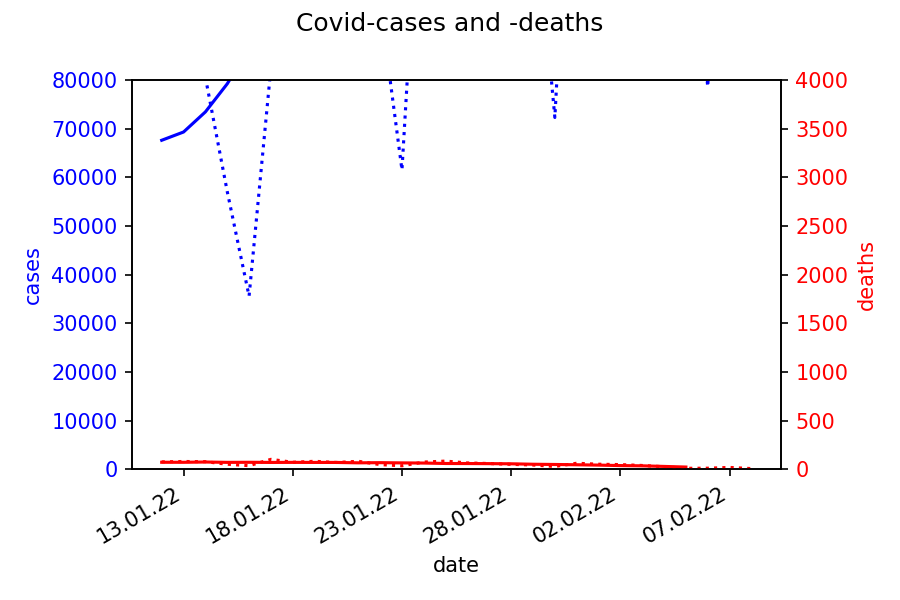
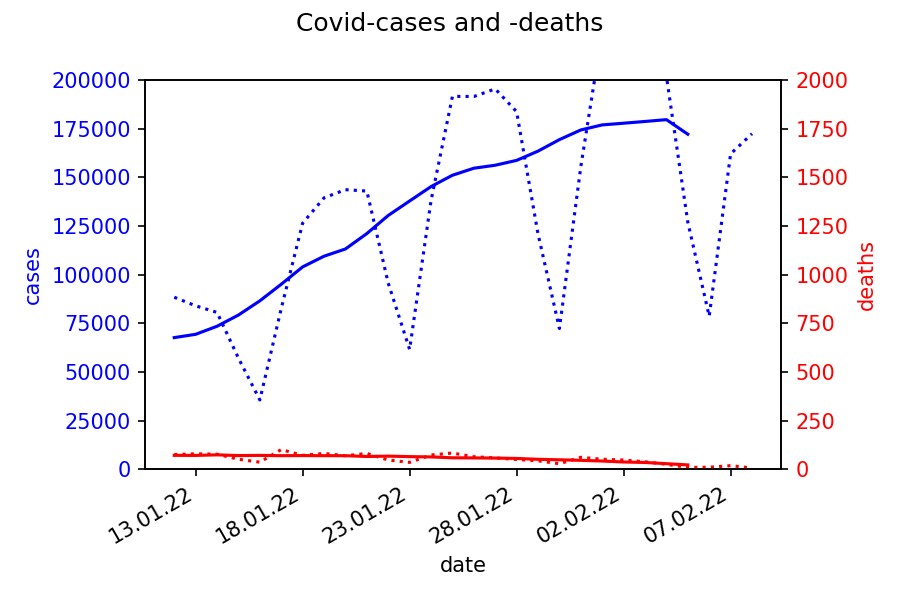
update plot maximum, as cases escalate

diff --git a/plot.py b/plot.py
@@ -26,9 +26,9 @@ def plot_graph(days, name):
     # ax1.xaxis.set_major_locator(mdates.DayLocator(interval=n//10))
     plt.gcf().autofmt_xdate()
     ax1.set_xlabel('date')
-    ax1.set_ylim(0,80000)
+    ax1.set_ylim(0,200000)  # max cases
     ax2 = ax1.twinx()
-    ax2.set_ylim(0,4000)
+    ax2.set_ylim(0,2000)   # max deaths
 
     for x, ax, color in [('cases', ax1, 'blue'), ('deaths', ax2, 'red')]:
         today, = [np.genfromtxt(f'{x}/{day}', delimiter=',', dtype=int) for day in sorted(os.listdir(x))[-1:]]
